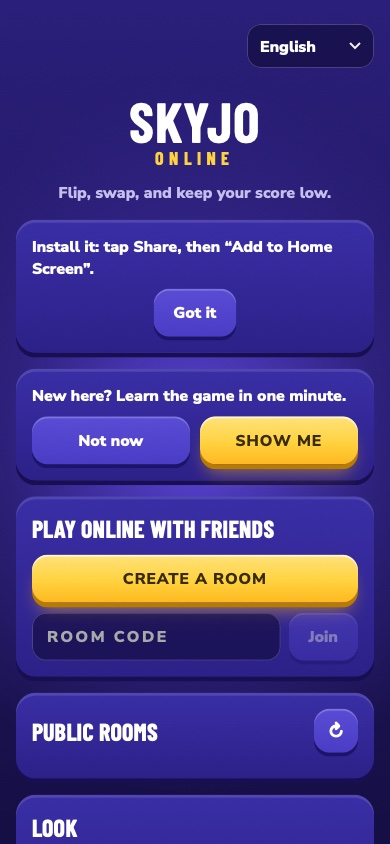
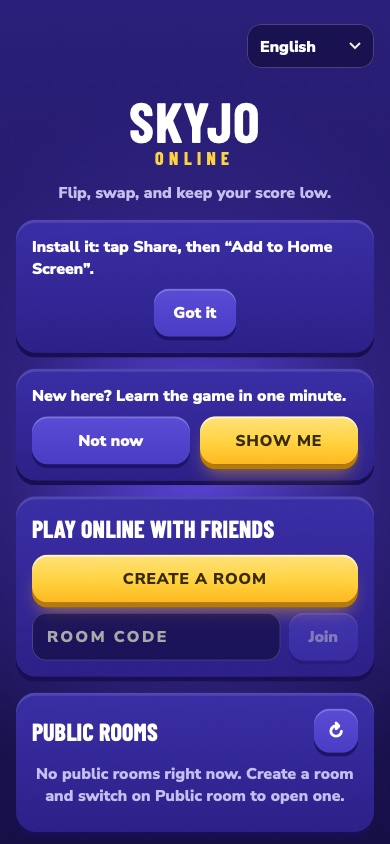
fix: the tutorial stops Home's polling, names its targets for screen readers, and reads better in es and pt (M31 review)

Changed region(s): [[0.0308, 0.8934, 0.9846, 1.0]]

diff --git a/e2e/tutorial.spec.ts b/e2e/tutorial.spec.ts
@@ -76,15 +76,18 @@ async function playStep(page: Page, i: number, says?: string[], measure = true) 
 test("M31: Home offers the tutorial once; it plays a whole scripted round on the real table in under 20 s, one instruction and one real tap at a time, explains the doubling at the summary and ends on Home, ready to create or join a room", async ({
   page,
 }) => {
+  // What the tutorial asks the server for while it plays: nothing (Home's own polls stop too).
   const requests: string[] = [];
+  let playing = false;
   page.on("request", (r) => {
-    if (new URL(r.url()).pathname.startsWith("/api/rooms")) requests.push(r.url());
+    if (playing && new URL(r.url()).pathname.startsWith("/api")) requests.push(r.url());
   });
   await page.goto("/");
   await expect(page.getByTestId("tutorial-offer")).toContainText("New here?");
   await expectMobileFriendly(page);
   const started = Date.now();
   await page.getByRole("button", { name: "Show me" }).click();
+  playing = true;
   await expect(page.getByTestId("table")).toHaveAttribute("data-phase", "flip");
   // The table's own names and no dead controls: you, against Leo.
   await expect(page.getByTestId("mine-head")).toContainText("You");
@@ -122,6 +125,7 @@ test("M31: Home offers the tutorial once; it plays a whole scripted round on the
   );
   await expect(summary.locator('tr[data-seat="0"]')).toContainText("9×2 = 18");
   await expect(summary.locator('tr[data-seat="1"]')).toContainText("7");
+  playing = false;
   await summary.getByRole("button", { name: "Continue" }).click();
   expect(Date.now() - started).toBeLessThan(20_000);
 
@@ -130,7 +134,6 @@ test("M31: Home offers the tutorial once; it plays a whole scripted round on the
   await expect(page.getByRole("button", { name: "Create a room" })).toBeEnabled();
   await expect(page.getByRole("textbox", { name: "Room code" })).toBeVisible();
   await expectMobileFriendly(page);
-  // Nothing went to the server.
   expect(requests).toEqual([]);
 
   // Never offered again, and replayable.

diff --git a/src/client/Tutorial.tsx b/src/client/Tutorial.tsx
@@ -104,6 +104,14 @@ function Coach({ say, versus, onNext, onSkip }: CoachProps) {
   // The table's own mode, read from its grid: the drawn card lies thrown on the pile.
   const [thrown, setThrown] = useState(false);
   const now = (thrown && say.thrown) || say;
+  // In words, for a screen reader: the rings and the bubble's place say it only to the eye.
+  const where = (now.at ?? [])
+    .map((at) =>
+      typeof at === "number"
+        ? t("where", { row: Math.floor(at / 4) + 1, col: (at % 4) + 1 })
+        : t(at === "deck" ? "deck" : "discardPile"),
+    )
+    .join(", ");
   const bubble = useRef<HTMLDivElement>(null);
   const rings = useRef<(HTMLElement | null)[]>([]);
   const place = () => {
@@ -168,7 +176,10 @@ function Coach({ say, versus, onNext, onSkip }: CoachProps) {
       ))}
       <div ref={bubble} className="coach" data-testid="coach">
         {/* One live region for the whole lesson, so a screen reader hears each instruction. */}
-        <p role="status">{t(now.say, { name: RIVAL })}</p>
+        <p role="status">
+          {t(now.say, { name: RIVAL })}
+          {where && <span className="sr-only"> ({where})</span>}
+        </p>
         <button type="button" className="coach-skip" onClick={onSkip}>
           {t("tutorSkip")}
         </button>

diff --git a/src/client/i18n.tsx b/src/client/i18n.tsx
@@ -450,7 +450,7 @@ const es: Record<Key, string> = {
   tutorContinue: "Continuar",
   tutorRival: "{name} está jugando…",
   tutorFlip: "Voltea estas dos cartas.",
-  tutorLow: "−2 es genial, 12 es malo. Menos gana.",
+  tutorLow: "−2 es genial, 12 es malo. Menos, mejor.",
   tutorTake: "Un 3 es bajo. Tómalo.",
   tutorSwap: "Cámbialo por tu 12.",
   tutorDraw: "Ahora roba del mazo.",
@@ -679,7 +679,7 @@ const pt: Record<Key, string> = {
   tutorContinue: "Continuar",
   tutorRival: "{name} está jogando…",
   tutorFlip: "Vire estas duas cartas.",
-  tutorLow: "−2 é ótimo, 12 é ruim. Menos vence.",
+  tutorLow: "−2 é ótimo, 12 é ruim. Menos, melhor.",
   tutorTake: "Um 3 é baixo. Pegue essa carta.",
   tutorSwap: "Troque pelo seu 12.",
   tutorDraw: "Agora compre do monte.",

diff --git a/src/client/Home.tsx b/src/client/Home.tsx
@@ -85,7 +85,6 @@ export function Home() {
   const [code, setCode] = useState("");
   const [iosHint, setIosHint] = useState(shouldShowIosHint);
   const online = useOnline();
-  const [rooms, refresh] = usePublicRooms(online);
   const dismissHint = () => {
     setIosHint(false);
     try {
@@ -106,6 +105,8 @@ export function Home() {
       // Offered again next visit; harmless.
     }
   };
+  // Not while the tutorial plays: it needs no network, and Home's list isn't on screen.
+  const [rooms, refresh] = usePublicRooms(online && learn !== "on");
   const [creating, setCreating] = useState(false);
   const [createError, setCreateError] = useState<"createFailed" | "tooManyRequests" | null>(null);
 

diff --git a/src/client/styles.css b/src/client/styles.css
@@ -4526,14 +4526,14 @@ dialog.chat .chat-log {
 }
 
 /* Home's offer of the tutorial, and its note once played through. */
-:is(.offer, .ready) p {
+.home :is(.offer, .ready) p {
   margin: 0;
 }
 
-.ready {
+.home .ready {
   outline: 2px solid var(--accent);
 }
 
-.ready h2 {
+.home .ready h2 {
   color: var(--accent);
 }
